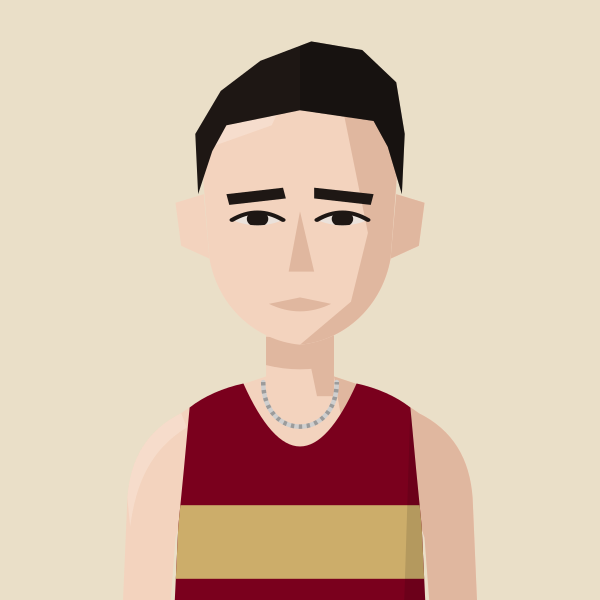
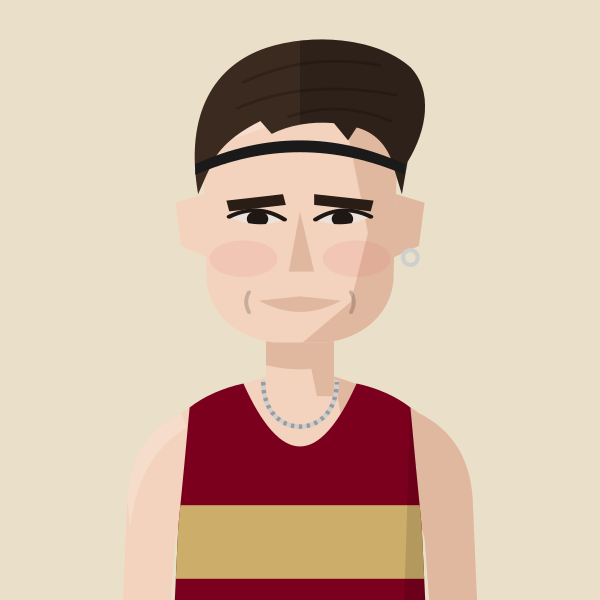
Portrait: Eoin Molloy redrawn (thick swept hair, black headband, cheek dimples, silver hoop)
Claude-Session: https://claude.ai/code/session_01MgmDWhFqnSSnP4iBLKXUZC

diff --git a/files/index.html b/files/index.html
@@ -766,7 +766,7 @@ const portraitFile=(name,club)=>{const k=normalizeNameForCompare(name||'').repla
 const portraitClubOf=(name,clubs)=>{for(const c of clubs||[]){if(c&&portraitFile(name,c))return c;}return null;}; /* first of these clubs we have a portrait for */
 // Athlete header figure: superstar portrait if we have one, else a grey runner in the club vest, else the plain vest icon
 // Changes whenever any portrait changes (set by tools/build_og.py), so browsers fetch fresh images instead of old cached ones
-const PORTRAIT_V='3a89e10e';const PORTRAIT_WOMEN='abbey-brooke,abbie-bulbulian,adele-prince,aimee-hargreaves,aisling-ahern,alex-brown,alex-gandee,alex-marginean,alex-miller,alexa-parker,alexandra-barbour,alice-braham,alice-bridger-morales,alice-crane,alice-martin,alice-reed,alice-smith,alison-purnell,alison-thomson,amelia-pettitt,amy-clements,andrea-barber,anika-schwarze-chintapatla,anna-garnier,anna-garnier-hw,anna-sharp,annabel-hobday,annabelle-hadlow,anne-hegvold,annmarie-seymour,ava-mcandie,becky-briggs,bethan-goddard,bethanie-murray,bethany-brown,betsy-griffiths,billie-mcclosky,camilla-barden,caoimhe-nic-fhogartaigh,carolyne-baxter,catherine-bryson,catherine-eastham,catherine-kandie,cathy-ansell,charlotte-griffiths,chloe-beckett,chloe-tighe,chrissie-wellington,claire-grima,clara-pettit,clare-elms,clare-pauzers,dillan-quinn,dorchie-cockerell,eilidh-hide,elinor-skinner,eliza-grant,elizabeth-apsley,elizabeth-stavreski,ella-fennelly,ella-king-powrie,ella-may-hards,ella-newton,ellen-weir,ellie-brown,ellie-freeden,eloise-bull,emilie-arnoux,emily-barrett,emily-bradley,emily-lowery,emily-robbins,emma-gordon,emma-howsham,emma-lord,emma-rowland,estle-viljoen,evie-warren,felicity-cole,felicity-harrison,felicity-hayward,fi-maddocks,fiona-de-mauny,florence-wiggins,gabby-collison,gabriel-reynolds,gemma-newport,genevieve-blanch,georgia-curry,georgie-bruinvels,georgie-fenn,georgie-furze,georgie-grgec,gina-galbraith,grace-leyland,grace-richardson,hannah-edwards,hannah-english,heather-statham,heather-statham-cc,helena-corbin,helena-keenan,holly-nixon,holly-pan,imogen-mackie,imogen-wolsey,iona-cousland,isabel-bradley,isabel-brinsden,isabelle-pickett,isobel-hodder,jennifer-nandi,jennifer-smith,jess-reed,jess-saunders,jess-winfield,jessica-davies,jessica-lowe,jodie-favell,josephine-rhodes,julia-bleasdale,julia-wedmore,juliet-hodder,jurgita-levertaviciute,justine-lynch,karen-fenner,karen-xiang,karina-box,kate-axford,kate-williams,kathy-sharpe,katie-ellen-french,katie-good,katie-snowden,katy-hedgethorne,kitty-shepherd-cross,kristina-popadich,lara-bromilow,lara-mangan,laura-goodson,laura-miles,lauren-major,lea-adamson,lily-newton,lisa-bailey,lisa-thomas,lisa-thomas-hw,lizzie-goldie-scot,louise-cooper,lucy-jones,lucy-macalister,lucy-peters,lydia-blackmore,lydia-gallyer-barnett,maddie-mastrolonardo,maddy-whitman,maeve-kenny,margaret-coogan,martina-conner,mary-james,mary-setyabule,matilde-lomba,megan-gildea,mel-wilkins,mhairi-hall,mimi-corden-lloyd,molly-oconnor,molly-smith,monika-gajek,naomi-lenane,natalie-beadle,natalie-seymour,natasha-lodge,niamh-thompson,nicky-hayes,nicola-cartlidge,nicola-douglas,nikki-sturzaker,olivia-papaioannou,olivia-stillman,orna-mcginley,pamela-mchutchon,patricia-walker,patrizia-gnoato,penny-oliver,rachel-brown,rebecca-barrow,rebekah-edgar,ruby-carter,ruby-whyte-wilding,ruby-woolfe,sally-urquhart,sam-whiting,samantha-munday,sarah-astin,sarah-dewhirst,sarah-grover,sarah-hanley,sarah-holt,sarah-murphy,sarah-palmer,sarah-palmer-ran,sarah-riceman,sarah-young,saron-haileselase,serena-carter,sophie-cowper,sophie-harris,sophie-hicks,sophie-tooley,stacey-ward,steph-hewitt,steph-mccall,steph-mccall-cc,steph-mccall-slh,steph-mitchell,suzanne-swaine,suze-spalding,suzie-harvey,suzy-whatmough,teresa-murphy,tilly-heaton,tilly-heaton-bel,tish-jones,vic-cartwright,vicky-clarke,victoria-barthelmess,victoria-buck,vikki-filsell,zoe-doyle,zoe-macdonald,zuzana-nemeckova';const PORTRAIT_MEN='aaron-wilson,abdulla-elsadig,adam-leane,adrian-major,adrien-royer,alan-black,alan-mead,alex-brecker,alex-bruce-littlewood,alex-gutteridge,alex-harris,alex-howard,alex-janiaud,alex-lee,alex-lennon,alex-mills,alex-milne,alex-morales,alex-robinson,alex-yee,alexander-marks,amittai-ben-israel,andrew-cumine,andrew-green,andrew-penney,andrew-perfect,andrew-simms,andrew-warburton,andrius-jaksevicius,andy-coley-maud,andy-coley-maud-cc,andy-fyfe,andy-north,andy-paton,andy-weir,angus-butler,angus-lamb,anisse-ismaili,arlo-ludewick,arne-dumez,arthur-peel,ashley-goncalves,barnaby-day,barry-collins,barry-sawyer,ben-clarke,ben-coughlan,ben-harding,ben-hurley,ben-ireland,ben-millar,ben-paviour,ben-pearce,ben-racle,ben-revill,ben-reynolds,ben-scott,ben-toomer,benedict-whitby,benjamin-hilson,bernie-ford,bill-kerr,bill-weller,bill-weller-wal,bob-harrison,bob-holt,bob-lunnon,bob-rayman,bob-smith,bradley-courtney-pinn,brandon-dewar,brian-gorman,brian-wilder,caleb-hathaway,callum-stewart,cameron-dockerill,cameron-reilly,carl-delaney,charles-herrington,charlie-dabbs,charlie-dickinson,charlie-eastaugh,charlie-manning,charlie-pickett,charlie-rogers,charlie-sandison,charlie-walker,charlie-wyllie,che-compton,chris-busaileh,chris-busaileh-hhh,chris-greenwood,chris-keavey,chris-moss,chris-steer,chris-threadgold,chris-warren,christian-lee,christopher-parker,clive-gilby,clive-shippen,colin-high,colin-pearson,conall-mcnally,conall-whelan,craig-ruddy,dame-dibaba,dan-cliffe,dan-pettitt,daniel-shaw,daniel-wolff,dave-beard,dave-beaver,dave-glassborow,dave-holt,dave-taylor,david-anderson,david-bowers,david-grima,david-north,david-ogden,david-symons,david-walsh,david-williams,deron-fagan,dick-piotrowski,dimos-evangelidis,dominic-kiralyfi,don-anderson,don-faircloth,don-maclean,doug-maughan,duncan-rimmer,dylan-evans,dylan-mitchard,ed-brewer,ed-catmur,ed-gibson,ed-mallett,eddie-herridge,eddie-jodrell,eddie-rolls,edward-chuck,eoin-brady,eoin-molloy,ethan-mccolgan,falilou-kebe,findlay-dyer,finn-johnson,fintan-pearce,frank-tickner,frank-ward,fred-paget,fred-slemeck,freddie-hessian,garret-lee,gary-ribbons,gary-ribbons-ee,gary-staines,gavin-eccles,geoff-biscoe,geoff-jerwood,geoff-north,george-cotton,george-gathercole,george-jackson,george-loxton,george-mallett,george-ogden,gerry-adams,gerry-north,glen-keegan,gordon-pearce,graham-macky,harrison-hayman,harry-guttridge,hector-revill,henry-hart,henry-silverstein,hugo-hewitt,huw-lobb,ian-acreman,ian-crowe-wright,ian-ellwood,ian-harkness,indy-barnes,isaac-lutaya,isaac-parker,jack-brotchie,jack-dickson,jack-dormer,jack-hampshire,jack-harrison,jack-hobden,jack-kavanagh,jack-millar,jack-ramm,jack-woods,jacob-brockmann,jake-simmonds,james-bartram,james-blackwood,james-bowler,james-estall,james-ewing,james-fox,james-hancock,james-harvey,james-hoad,james-kelly,james-mcmullan,james-murray,james-nutt,james-preston,james-roberts,james-stockings,james-ward,james-wootton,jamie-crowe,jamie-parkinson,jared-martin,jean-paul-wright,jeff-cunningham,jeremy-dempsey,jermaine-mays,jerry-watson,jim-allchin,jim-rimmer,joe-english,joe-hartley,john-baker,john-bicourt,john-bromley,john-davies,john-dear,john-foss,john-foxall,john-gilbert,john-gladwin,john-hutchins,john-kendall,john-kimaiyo,john-lee,john-lethbridge,john-mather,john-moore,john-roberts,john-sanderson,john-stow,john-sullivan,john-thresher,jon-hobbs,jon-pepper,jon-pepper-slh,jon-phillips,jon-solly,jonathan-cocker,jonathan-collier,jonathan-cornish,jonathan-ratcliffe,jonathan-tipper,jonathon-blackledge,jonny-neville,jonny-scott,jordan-weaver,josh-mitchell,josh-snow,josh-trigwell,jules-gevers,junior-galley,justin-chaston,justin-reid,kassa-tadesse,keith-newton,kevin-nash,kevin-quinn,kevin-sturman,kieran-barnes,kieran-white,knut-hegvold,knut-hegvold-bel,larry-ryan,lawrence-avery,lee-lintern,lewis-lloyd,liam-burthem,lionel-mann,lloyd-kempson,luke-caldwell,mack-downie,malachi-byansi,marcello-bizio,marcelo-fortes,marco-mazzotta,mark-anderson,mark-miles,mark-sinclair,mark-tennyson,mark-waller,martin-dent,martin-lake,martin-lewington,martin-shore,mathew-speed,matt-chaston,matt-jones,matt-wood,matthew-edgar,matthew-houchell,matthew-thomas,matthew-varley,max-bloor,max-heyden,max-milarvie,max-nicholls,michael-baker,michael-mccarthy,mick-woods,mike-beevor,mike-boyle,mike-cummings,mike-farmery,mike-fuller,mike-hayes,mike-kortenray,mike-nouch,mohammed-ismail,monty-hudson,morgan-roberts,nathan-visick,neil-chisholm,neil-phillips,neil-speaight,neil-wilson,nic-lukies,nick-acfield,nick-altmann,nick-bester,nick-bester-hhh,nick-buckle,nick-bundle,nick-goolab,nick-lightfoot,nick-morris,nick-torry,noah-fernandez,norman-stairs,oli-carrington,oliver-carrington,oliver-fox,oliver-reynolds,oliver-young,ollie-foote,ollie-garrod,olly-buck,owen-hind,paddy-roddy,pancho-panchev,paskar-owor,pat-newell,patrick-mcdougall,paul-calver,paul-cheetham,paul-freary,paul-magner,paul-pollock,paul-sanderson,paul-sanderson-wok,pete-carton,pete-gardner,peter-clarke,peter-giles,peter-giles-thh,peter-lighting,phil-carstairs,phil-sanders,phil-sesemann,phil-swinburn,phil-wicks,phil-woodford-smith,raj-paranandi,ralph-street,ranjit-bhatia,ray-foley,reece-edwards,rhys-boorman,rian-mccawley,richard-ashe,richard-giles,richard-henderson,richard-langley,richard-mcdowell,richard-ollington,richard-partridge,richard-sun,richard-ward,rob-armstrong,rob-kelly,rob-tuer,robert-elphick,robert-laing,robert-norville,robert-peacock,robert-sesemann,robin-boon,robin-hudson,roger-alsop,roger-alsop-bel,ron-clark,ron-linstead,ronan-tanguy,rory-mcmahon,rory-orsborn,ross-braden,ross-christie,rowan-board,rowan-crichton,russell-dessaix-chin,ryan-hickey,ryan-mccallister,sam-bramwell,sam-charlton,sam-gebreselassie,sam-haughian,sam-peters,sam-sommerville,sam-tyas,samuel-dames,samuel-wilcock,sean-cordon,sebastian-anthony,simon-baines,simon-coombes,simon-coppard,simon-holmes,simon-rayner,simon-rayner-hw,simon-wade,simon-wade-hhh,simon-waterhouse,simon-williams,simon-wurr,sonny-nicoll,spencer-barden,stephen-mcleod,stephen-sharp,steve-gardner,steve-jones,steve-smythe,steve-smythe-hhh,stuart-beaney,stuart-major,stuart-major-thh,stuart-mccallum,stuart-paton,terry-booth,thomas-dugre,thomas-gandee,thomas-gardner,thomas-renshaw,tim-alexander,tim-eglen,tim-lawrence,tim-watson,toby-cooke,toby-fletcher,tom-austin,tom-cheetham,tom-conlon,tom-davies,tom-gifford,tom-jervis,tom-lole,tom-south,tom-thornley,tommy-taylor,tony-binda,tony-fairclough,tony-harran,trevor-hart,valdis-pauzers,valentin-rigori,vic-maughan,wayne-oxborough,will-cockerell,will-lewis,will-marshall,will-scott,will-stockley,william-gardner,yacin-yusuf,zach-nolan';
+const PORTRAIT_V='f90d34c9';const PORTRAIT_WOMEN='abbey-brooke,abbie-bulbulian,adele-prince,aimee-hargreaves,aisling-ahern,alex-brown,alex-gandee,alex-marginean,alex-miller,alexa-parker,alexandra-barbour,alice-braham,alice-bridger-morales,alice-crane,alice-martin,alice-reed,alice-smith,alison-purnell,alison-thomson,amelia-pettitt,amy-clements,andrea-barber,anika-schwarze-chintapatla,anna-garnier,anna-garnier-hw,anna-sharp,annabel-hobday,annabelle-hadlow,anne-hegvold,annmarie-seymour,ava-mcandie,becky-briggs,bethan-goddard,bethanie-murray,bethany-brown,betsy-griffiths,billie-mcclosky,camilla-barden,caoimhe-nic-fhogartaigh,carolyne-baxter,catherine-bryson,catherine-eastham,catherine-kandie,cathy-ansell,charlotte-griffiths,chloe-beckett,chloe-tighe,chrissie-wellington,claire-grima,clara-pettit,clare-elms,clare-pauzers,dillan-quinn,dorchie-cockerell,eilidh-hide,elinor-skinner,eliza-grant,elizabeth-apsley,elizabeth-stavreski,ella-fennelly,ella-king-powrie,ella-may-hards,ella-newton,ellen-weir,ellie-brown,ellie-freeden,eloise-bull,emilie-arnoux,emily-barrett,emily-bradley,emily-lowery,emily-robbins,emma-gordon,emma-howsham,emma-lord,emma-rowland,estle-viljoen,evie-warren,felicity-cole,felicity-harrison,felicity-hayward,fi-maddocks,fiona-de-mauny,florence-wiggins,gabby-collison,gabriel-reynolds,gemma-newport,genevieve-blanch,georgia-curry,georgie-bruinvels,georgie-fenn,georgie-furze,georgie-grgec,gina-galbraith,grace-leyland,grace-richardson,hannah-edwards,hannah-english,heather-statham,heather-statham-cc,helena-corbin,helena-keenan,holly-nixon,holly-pan,imogen-mackie,imogen-wolsey,iona-cousland,isabel-bradley,isabel-brinsden,isabelle-pickett,isobel-hodder,jennifer-nandi,jennifer-smith,jess-reed,jess-saunders,jess-winfield,jessica-davies,jessica-lowe,jodie-favell,josephine-rhodes,julia-bleasdale,julia-wedmore,juliet-hodder,jurgita-levertaviciute,justine-lynch,karen-fenner,karen-xiang,karina-box,kate-axford,kate-williams,kathy-sharpe,katie-ellen-french,katie-good,katie-snowden,katy-hedgethorne,kitty-shepherd-cross,kristina-popadich,lara-bromilow,lara-mangan,laura-goodson,laura-miles,lauren-major,lea-adamson,lily-newton,lisa-bailey,lisa-thomas,lisa-thomas-hw,lizzie-goldie-scot,louise-cooper,lucy-jones,lucy-macalister,lucy-peters,lydia-blackmore,lydia-gallyer-barnett,maddie-mastrolonardo,maddy-whitman,maeve-kenny,margaret-coogan,martina-conner,mary-james,mary-setyabule,matilde-lomba,megan-gildea,mel-wilkins,mhairi-hall,mimi-corden-lloyd,molly-oconnor,molly-smith,monika-gajek,naomi-lenane,natalie-beadle,natalie-seymour,natasha-lodge,niamh-thompson,nicky-hayes,nicola-cartlidge,nicola-douglas,nikki-sturzaker,olivia-papaioannou,olivia-stillman,orna-mcginley,pamela-mchutchon,patricia-walker,patrizia-gnoato,penny-oliver,rachel-brown,rebecca-barrow,rebekah-edgar,ruby-carter,ruby-whyte-wilding,ruby-woolfe,sally-urquhart,sam-whiting,samantha-munday,sarah-astin,sarah-dewhirst,sarah-grover,sarah-hanley,sarah-holt,sarah-murphy,sarah-palmer,sarah-palmer-ran,sarah-riceman,sarah-young,saron-haileselase,serena-carter,sophie-cowper,sophie-harris,sophie-hicks,sophie-tooley,stacey-ward,steph-hewitt,steph-mccall,steph-mccall-cc,steph-mccall-slh,steph-mitchell,suzanne-swaine,suze-spalding,suzie-harvey,suzy-whatmough,teresa-murphy,tilly-heaton,tilly-heaton-bel,tish-jones,vic-cartwright,vicky-clarke,victoria-barthelmess,victoria-buck,vikki-filsell,zoe-doyle,zoe-macdonald,zuzana-nemeckova';const PORTRAIT_MEN='aaron-wilson,abdulla-elsadig,adam-leane,adrian-major,adrien-royer,alan-black,alan-mead,alex-brecker,alex-bruce-littlewood,alex-gutteridge,alex-harris,alex-howard,alex-janiaud,alex-lee,alex-lennon,alex-mills,alex-milne,alex-morales,alex-robinson,alex-yee,alexander-marks,amittai-ben-israel,andrew-cumine,andrew-green,andrew-penney,andrew-perfect,andrew-simms,andrew-warburton,andrius-jaksevicius,andy-coley-maud,andy-coley-maud-cc,andy-fyfe,andy-north,andy-paton,andy-weir,angus-butler,angus-lamb,anisse-ismaili,arlo-ludewick,arne-dumez,arthur-peel,ashley-goncalves,barnaby-day,barry-collins,barry-sawyer,ben-clarke,ben-coughlan,ben-harding,ben-hurley,ben-ireland,ben-millar,ben-paviour,ben-pearce,ben-racle,ben-revill,ben-reynolds,ben-scott,ben-toomer,benedict-whitby,benjamin-hilson,bernie-ford,bill-kerr,bill-weller,bill-weller-wal,bob-harrison,bob-holt,bob-lunnon,bob-rayman,bob-smith,bradley-courtney-pinn,brandon-dewar,brian-gorman,brian-wilder,caleb-hathaway,callum-stewart,cameron-dockerill,cameron-reilly,carl-delaney,charles-herrington,charlie-dabbs,charlie-dickinson,charlie-eastaugh,charlie-manning,charlie-pickett,charlie-rogers,charlie-sandison,charlie-walker,charlie-wyllie,che-compton,chris-busaileh,chris-busaileh-hhh,chris-greenwood,chris-keavey,chris-moss,chris-steer,chris-threadgold,chris-warren,christian-lee,christopher-parker,clive-gilby,clive-shippen,colin-high,colin-pearson,conall-mcnally,conall-whelan,craig-ruddy,dame-dibaba,dan-cliffe,dan-pettitt,daniel-shaw,daniel-wolff,dave-beard,dave-beaver,dave-glassborow,dave-holt,dave-taylor,david-anderson,david-bowers,david-grima,david-north,david-ogden,david-symons,david-walsh,david-williams,deron-fagan,dick-piotrowski,dimos-evangelidis,dominic-kiralyfi,don-anderson,don-faircloth,don-maclean,doug-maughan,duncan-rimmer,dylan-evans,dylan-mitchard,ed-brewer,ed-catmur,ed-gibson,ed-mallett,eddie-herridge,eddie-jodrell,eddie-rolls,edward-chuck,eoin-brady,eoin-molloy,ethan-mccolgan,falilou-kebe,findlay-dyer,finn-johnson,fintan-pearce,frank-tickner,frank-ward,fred-paget,fred-slemeck,freddie-hessian,garret-lee,gary-ribbons,gary-ribbons-ee,gary-staines,gavin-eccles,geoff-biscoe,geoff-jerwood,geoff-north,george-cotton,george-gathercole,george-jackson,george-loxton,george-mallett,george-ogden,gerry-adams,gerry-north,glen-keegan,gordon-pearce,graham-macky,harrison-hayman,harry-guttridge,hector-revill,henry-hart,henry-silverstein,hugo-hewitt,huw-lobb,ian-acreman,ian-crowe-wright,ian-ellwood,ian-harkness,indy-barnes,isaac-lutaya,isaac-parker,jack-brotchie,jack-dickson,jack-dormer,jack-hampshire,jack-harrison,jack-hobden,jack-kavanagh,jack-millar,jack-ramm,jack-woods,jacob-brockmann,jake-simmonds,james-bartram,james-blackwood,james-bowler,james-estall,james-ewing,james-fox,james-hancock,james-harvey,james-hoad,james-kelly,james-mcmullan,james-murray,james-nutt,james-preston,james-roberts,james-stockings,james-ward,james-wootton,jamie-crowe,jamie-parkinson,jared-martin,jean-paul-wright,jeff-cunningham,jeremy-dempsey,jermaine-mays,jerry-watson,jim-allchin,jim-rimmer,joe-english,joe-hartley,john-baker,john-bicourt,john-bromley,john-davies,john-dear,john-foss,john-foxall,john-gilbert,john-gladwin,john-hutchins,john-kendall,john-kimaiyo,john-lee,john-lethbridge,john-mather,john-moore,john-roberts,john-sanderson,john-stow,john-sullivan,john-thresher,jon-hobbs,jon-pepper,jon-pepper-slh,jon-phillips,jon-solly,jonathan-cocker,jonathan-collier,jonathan-cornish,jonathan-ratcliffe,jonathan-tipper,jonathon-blackledge,jonny-neville,jonny-scott,jordan-weaver,josh-mitchell,josh-snow,josh-trigwell,jules-gevers,junior-galley,justin-chaston,justin-reid,kassa-tadesse,keith-newton,kevin-nash,kevin-quinn,kevin-sturman,kieran-barnes,kieran-white,knut-hegvold,knut-hegvold-bel,larry-ryan,lawrence-avery,lee-lintern,lewis-lloyd,liam-burthem,lionel-mann,lloyd-kempson,luke-caldwell,mack-downie,malachi-byansi,marcello-bizio,marcelo-fortes,marco-mazzotta,mark-anderson,mark-miles,mark-sinclair,mark-tennyson,mark-waller,martin-dent,martin-lake,martin-lewington,martin-shore,mathew-speed,matt-chaston,matt-jones,matt-wood,matthew-edgar,matthew-houchell,matthew-thomas,matthew-varley,max-bloor,max-heyden,max-milarvie,max-nicholls,michael-baker,michael-mccarthy,mick-woods,mike-beevor,mike-boyle,mike-cummings,mike-farmery,mike-fuller,mike-hayes,mike-kortenray,mike-nouch,mohammed-ismail,monty-hudson,morgan-roberts,nathan-visick,neil-chisholm,neil-phillips,neil-speaight,neil-wilson,nic-lukies,nick-acfield,nick-altmann,nick-bester,nick-bester-hhh,nick-buckle,nick-bundle,nick-goolab,nick-lightfoot,nick-morris,nick-torry,noah-fernandez,norman-stairs,oli-carrington,oliver-carrington,oliver-fox,oliver-reynolds,oliver-young,ollie-foote,ollie-garrod,olly-buck,owen-hind,paddy-roddy,pancho-panchev,paskar-owor,pat-newell,patrick-mcdougall,paul-calver,paul-cheetham,paul-freary,paul-magner,paul-pollock,paul-sanderson,paul-sanderson-wok,pete-carton,pete-gardner,peter-clarke,peter-giles,peter-giles-thh,peter-lighting,phil-carstairs,phil-sanders,phil-sesemann,phil-swinburn,phil-wicks,phil-woodford-smith,raj-paranandi,ralph-street,ranjit-bhatia,ray-foley,reece-edwards,rhys-boorman,rian-mccawley,richard-ashe,richard-giles,richard-henderson,richard-langley,richard-mcdowell,richard-ollington,richard-partridge,richard-sun,richard-ward,rob-armstrong,rob-kelly,rob-tuer,robert-elphick,robert-laing,robert-norville,robert-peacock,robert-sesemann,robin-boon,robin-hudson,roger-alsop,roger-alsop-bel,ron-clark,ron-linstead,ronan-tanguy,rory-mcmahon,rory-orsborn,ross-braden,ross-christie,rowan-board,rowan-crichton,russell-dessaix-chin,ryan-hickey,ryan-mccallister,sam-bramwell,sam-charlton,sam-gebreselassie,sam-haughian,sam-peters,sam-sommerville,sam-tyas,samuel-dames,samuel-wilcock,sean-cordon,sebastian-anthony,simon-baines,simon-coombes,simon-coppard,simon-holmes,simon-rayner,simon-rayner-hw,simon-wade,simon-wade-hhh,simon-waterhouse,simon-williams,simon-wurr,sonny-nicoll,spencer-barden,stephen-mcleod,stephen-sharp,steve-gardner,steve-jones,steve-smythe,steve-smythe-hhh,stuart-beaney,stuart-major,stuart-major-thh,stuart-mccallum,stuart-paton,terry-booth,thomas-dugre,thomas-gandee,thomas-gardner,thomas-renshaw,tim-alexander,tim-eglen,tim-lawrence,tim-watson,toby-cooke,toby-fletcher,tom-austin,tom-cheetham,tom-conlon,tom-davies,tom-gifford,tom-jervis,tom-lole,tom-south,tom-thornley,tommy-taylor,tony-binda,tony-fairclough,tony-harran,trevor-hart,valdis-pauzers,valentin-rigori,vic-maughan,wayne-oxborough,will-cockerell,will-lewis,will-marshall,will-scott,will-stockley,william-gardner,yacin-yusuf,zach-nolan';
 // Runners whose dog pops up on their own profile page (a -dog.svg version of their portrait)
 const PROFILE_DOGS=new Set(['john-sanderson','penny-oliver','james-hancock','angus-butler']);
 const AthletePortrait=({name,club,w,fill,onClick,blink})=>{const[failed,setFailed]=useState(false);const file=portraitFile(name,club);const src0=file?`/portraits/athletes/${file}.svg?v=${PORTRAIT_V}`:PORTRAIT_CLUBS.has(club)?`/portraits/clubs/${club.replace(/\//g,'').replace(/&/g,'and')}.svg?v=${PORTRAIT_V}`:null;const blinkSrc=useBlinkSrc(file?(PROFILE_DOGS.has(file)?`/portraits/athletes/${file}-dog.svg?v=${PORTRAIT_V}`:src0):null,!!blink);const src=blinkSrc||src0;if(!src||failed)return<div onClick={onClick} className={onClick?'cursor-pointer':''}><ClubShield club={club} size={w}/></div>;const h=Math.round(w*148/126),ih=Math.round(w*1.4);if(fill)return<div onClick={onClick} className="cursor-pointer" style={{alignSelf:'stretch',minHeight:h,aspectRatio:'126 / 148',flexShrink:0,position:'relative',borderRadius:4,overflow:'hidden'}}><img src={src} alt={file?`Portrait of ${name.replace(/\s*\([^)]*\)$/,'')}`:`Runner in ${CLUBS[club]?.name||club} vest`} style={{position:'absolute',top:0,left:0,display:'block',width:'100%',height:'auto'}} onError={()=>setFailed(true)}/></div>;return<div style={{width:w,height:h,borderRadius:4,overflow:'hidden',flexShrink:0}}><img src={src} alt={file?`Portrait of ${name.replace(/\s*\([^)]*\)$/,'')}`:`Runner in ${CLUBS[club]?.name||club} vest`} width={w} height={ih} style={{display:'block',width:w,height:ih}} onError={()=>setFailed(true)}/></div>;};

diff --git a/tools/gen_portraits.py b/tools/gen_portraits.py
@@ -1,7 +1,7 @@
 """Simplified geometric portraits.
 Custom options: skin tone, hair style, hair colour, facial hair. Nothing else.
 Generic runners: 'grey' silhouette or 'outline' — no implied skin tone."""
-import os, math
+import os, math, re
 os.makedirs("v4", exist_ok=True)
 
 HEAD_NARROW = "M66,96 C64,58 80,40 100,40 C120,40 136,58 134,96 L131,122 C127,146 114,165 100,168 C86,165 73,146 69,122 Z"
@@ -1728,4 +1728,21 @@ save("sam-charlton", brows(figure("BEL", skin=1, hair="flatfringe", hair_colour=
 save("ryan", archbrows(eyes(figure("BEL", skin=1, hair="sidepart", hair_colour="#5A4030", brow_colour="#4A3426", jaw="widepoint", creases=True, necklace="#D4D4D4"), None, 2)))
 # Ben Coughlan (BEL), Oct 2026: short dark auburn curls, long thin face with a strong chin, high cheekbones, thin warm brows, open eyes
 save("ben-coughlan", curl_marks(brows(eyes(figure("BEL", skin=1, hair="tightcurls", hair_colour="#5E3322", brow_colour="#4A2A1C", thin_brows=True, jaw="broadchin", gaunt=True), None, 1), 1.5, 1)))
+# ---- Thick swept hair, single hoop, cheek dimples, wide smile (Oct 2026, first used for Eoin Molloy) ----
+HAIR["thickswept"] = '<path d="M64,100 C59,62 70,40 88,32 C104,25 127,27 139,41 C147,52 145,70 138,85 L136,100 L133,87 C131,77 126,71 120,69 L117,75 L112,67 C104,66 96,68 90,72 L86,66 C80,70 74,75 70,83 L67,91 Z"/><g fill="none" stroke="#000" stroke-opacity=".2" stroke-width="1.3" stroke-linecap="round"><path d="M80,48 Q102,34 128,40"/><path d="M78,60 Q102,46 134,54"/><path d="M96,64 Q114,56 132,66"/></g>'
+def hoop(svg, col="#CFCFCF", side="right"):
+    """One small hoop earring through the lobe (right = the viewer's right)."""
+    cx = 139 if side == "right" else 61
+    return svg.replace('</svg>', f'<circle cx="{cx}" cy="111" r="2.6" fill="none" stroke="{col}" stroke-width="1.5"/></svg>', 1)
+def widesmile(svg):
+    """A wider, open smile."""
+    return svg.replace('<path d="M89,151 L100,148 L111,151 Q100,158 89,151 Z"', '<path d="M85.5,149.5 L100,147.5 L114.5,149.5 Q100,160 85.5,149.5 Z"', 1)
+def cheekdimples(svg, col="#000"):
+    """Little smile dimples just outside the corners of the mouth (call after widesmile, or on the standard mouth)."""
+    d = '<g fill="none" stroke="' + col + '" stroke-opacity=".18" stroke-width="1.4" stroke-linecap="round"><path d="M82,145.5 Q80,150 82,155"/><path d="M118,145.5 Q120,150 118,155"/></g>'
+    m = re.search(r'<path d="M8[5-9][^"]*Q100,1[56]\d[^"]*Z" fill="[^"]*"/>', svg)
+    return svg[:m.end()] + d + svg[m.end():] if m else svg
+# Eoin Molloy (BEL), redrawn Oct 2026: thick dark brown hair swept up and across, black headband, squarer jaw, almond eyes under
+# straight dark brows, rosy cheeks, wide smile with cheek dimples, fine silver chain, small silver hoop in one ear
+save("eoin-molloy", hoop(cheekdimples(widesmile(brows(eyes(figure("BEL", skin=1, hair="thickswept", hair_colour="#3B2A20", brow_colour="#2A1D16", headband="#1A1A1A", necklace="#CFCFCF", rosy=True, jaw="square"), "almond"), 0, 0, 3)))))
 export_site()
